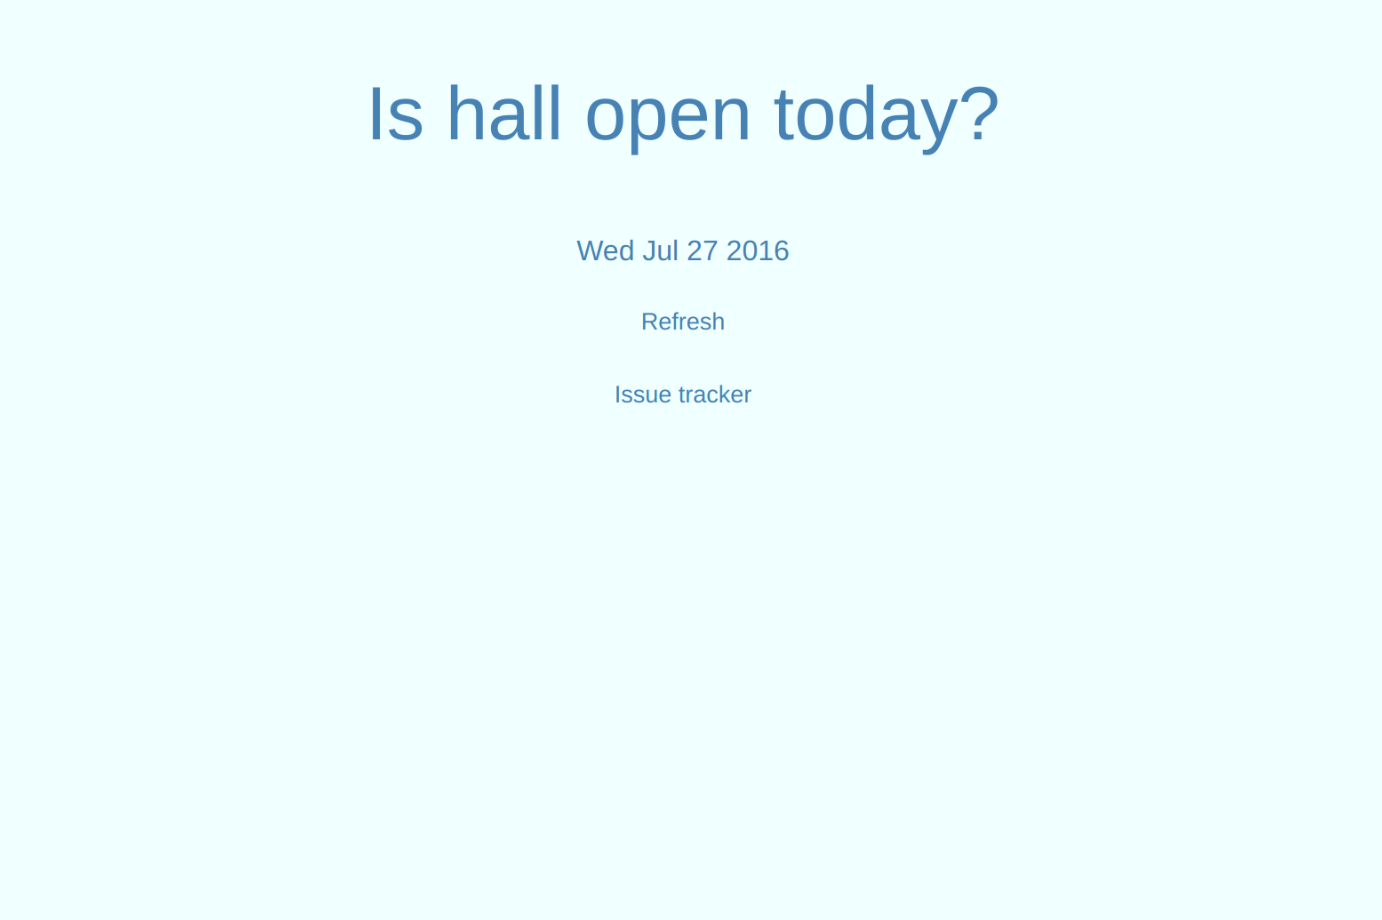
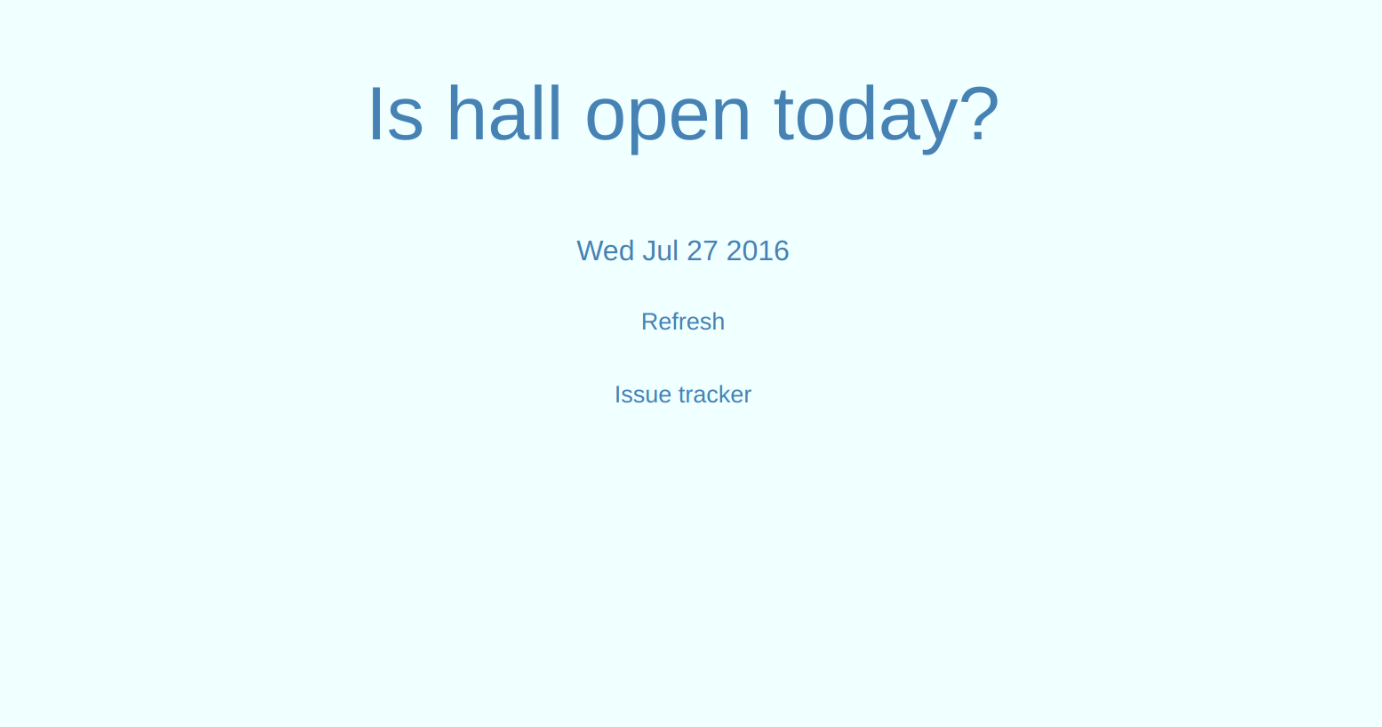
Fix metadata error

diff --git a/index.html b/index.html
@@ -1,4 +1,4 @@
-<!DOCTYPE HTML><html><head><meta charset="utf-8"><meta property="og:image" content="hall-today.png"><meta property="og:image:type" content="image/png"><meta property="og:image:width" content="1382"><meta property="og:image:height" content="920"><meta property="og:url" content="https://dbaynard.github.io/ishallopen"><meta property="og:title" content="Is hall open today?"><meta content="Emma hall is sometimes open, sometimes not. What is it doing today?" name="description"><meta property="og:description" content="Emma hall is sometimes open, sometimes not. What is it doing today?"><meta property="og:locale" content="en_GB"><meta property="og:type" content="business.business"><link href="//emmamcr.org.uk" rel="publisher"><title>Is Hall Open Today?</title><style>
+<!DOCTYPE HTML><html><head><meta charset="utf-8"><meta property="og:image" content="https://dbaynard.github.io/ishallopen/hall-today.png"><meta property="og:image:type" content="image/png"><meta property="og:image:width" content="1382"><meta property="og:image:height" content="727"><meta property="og:url" content="https://dbaynard.github.io/ishallopen"><meta property="og:title" content="Is hall open today?"><meta content="Emma hall is sometimes open, sometimes not. What is it doing today?" name="description"><meta property="og:description" content="Emma hall is sometimes open, sometimes not. What is it doing today?"><meta property="og:locale" content="en_GB"><meta property="og:type" content="business.business"><link href="//emmamcr.org.uk" rel="publisher"><title>Is Hall Open Today?</title><style>
 body
 {
   background-color : rgb(240,255,255);
